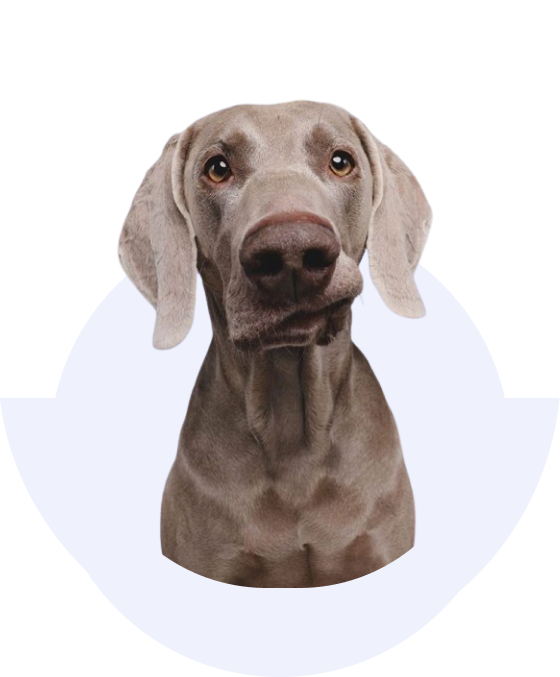
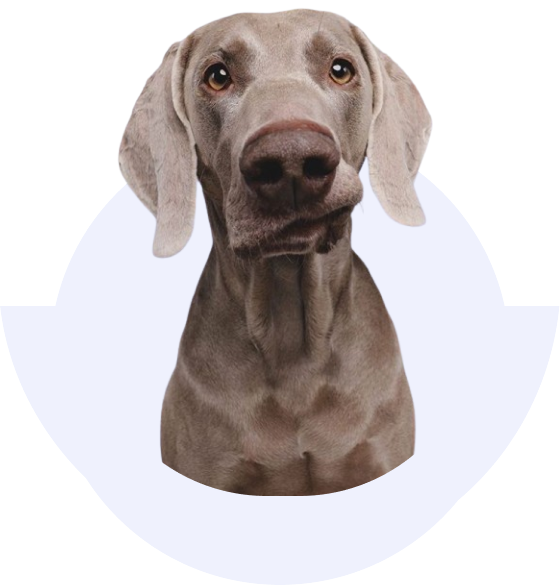
complete scale animation update

Changed region(s): [[0.2125, 0.0, 0.7893, 0.8923]]

diff --git a/src/components/Home/Hero/index.tsx b/src/components/Home/Hero/index.tsx
@@ -3,6 +3,7 @@ import heroImage from "@/public/images/hero/hero-big.png"
 import { WaveBg } from '@/src/assets/svgs'
 import Image from 'next/image'
 import TextAnimations from '../../UI/Animation/TextAnimation'
+import ScaleAnimation from '../../UI/Animation/ScaleAnimation'
 const HeroSection = () => {
 
 
@@ -13,14 +14,16 @@ const HeroSection = () => {
     >
       <WaveBg className="w-full h-[105%] absolute inset-0 text-primary" />
       <div className="hero  w-[80%] h-[80%] glass rounded-box mt-[4vmax]">
-        <div className="hero-content flex-col lg:flex-row-reverse">
-          <Image
-            src={heroImage} width={heroImage.width} height={heroImage.height} alt='heroImage'
-            className="w-[40%] aspect-square rounded-lg object-cover" />
-          <div>
+        <div className="w-full h-full hero-content flex-col lg:flex-row-reverse">
+          <ScaleAnimation duration={0.75} delay={1.5} once scaleVal boxClass='md:w-1/2 md:h-full h-1/2 w-full flex justify-center items-center'>
+            <Image
+              src={heroImage} width={heroImage.width} height={heroImage.height} alt='heroImage'
+              className="md:w-[90%] w-[70%] aspect-square object-contain mx-auto" />
+          </ScaleAnimation>
+          <div className='md:w-1/2 md:h-full h-1/2 w-full flex flex-col justify-center text-center p-4'>
             <TextAnimations
               text='Box Office News!'
-              boxClass='text-5xl font-bold'
+              boxClass='md:text-5xl text-2xl font-bold w-full'
               el='h1'
               staggerTime={0.1}
               duration={0.1}
@@ -34,9 +37,9 @@ const HeroSection = () => {
                 "exercitationem   quasi. In deleniti ",
                 "eaque aut repudiandae et a id nisi. "
               ]}
-              boxClass='py-6 w-[50%]'
+              boxClass='py-6 w-[50%] md:text-base text-xs w-full'
               staggerTime={0.1}
-              duration={1}
+              duration={0.75}
               delay={1.5}
               once
               typeAnimation='lineOpacity'

diff --git a/src/components/UI/Animation/ScaleAnimation.tsx b/src/components/UI/Animation/ScaleAnimation.tsx
@@ -1,0 +1,79 @@
+"use client"
+import { motion, useInView } from "framer-motion"
+import { useRef } from "react"
+
+export interface animationComponentProps {
+    boxClass?: string
+    children: React.ReactNode
+    delay?: number
+    duration?: number
+    whenAnimate?: string
+    whenExit?: string
+    amountView?: number,
+    once?: boolean
+}
+
+interface scaleAnimations extends animationComponentProps {
+    scaleYVal?: boolean
+    scaleXVal?: boolean
+    scaleVal?: boolean
+}
+const ScaleAnimation = ({
+    boxClass,
+    children,
+    delay,
+    duration,
+    whenAnimate,
+    whenExit,
+    scaleYVal,
+    scaleXVal,
+    scaleVal,
+    once,
+    amountView
+}: scaleAnimations) => {
+    const scaleRef = useRef(null)
+    const isInView = useInView(scaleRef, { amount: amountView ?? 0.5, once })
+    const sclaeYVariant = {
+        initial: {
+            scaleY: scaleYVal ? 0 : 1,
+            scaleX: scaleXVal ? 0 : 1,
+            scale: scaleVal ? 0 : 1
+        },
+        animate: {
+            scaleY: 1,
+            scaleX: 1,
+            scale: 1,
+            transition: {
+                delay: delay ?? 0,
+                duration: duration ?? 0.75,
+                when: whenAnimate ?? "beforeChildren",
+            }
+        },
+        exit: {
+            scaleY: scaleYVal ? 0 : 1,
+            scaleX: scaleXVal ? 0 : 1,
+            scale: scaleVal ? 0 : 1,
+            transition: {
+                duration: duration ?? 0.75,
+                when: whenExit ?? 'afterChildren'
+            }
+        }
+    }
+    return (
+        <motion.div
+            ref={scaleRef}
+            initial='initial'
+            animate={isInView ? 'animate' : "initial"}
+            exit='exit'
+            className={boxClass}
+        >
+            <motion.div 
+                variants={sclaeYVariant}
+            >
+                {children}
+            </motion.div>
+        </motion.div>
+    )
+}
+
+export default ScaleAnimation

diff --git a/src/components/navbar/index.tsx b/src/components/navbar/index.tsx
@@ -4,17 +4,14 @@ import LanguageChanger from '../LanguageChanger'
 import NavItem from './NavItem'
 import Link from 'next/link'
 import HamMenu from './HamMenu'
-import ham from "@/public/svg/ham.svg"
-import close from "@/public/svg/close.svg"
-import Image from 'next/image'
 import { RiLoginBoxFill } from 'react-icons/ri'
 import { useTranslations } from 'next-intl'
 import SwitchTheme from './SwitchTheme'
 import Logo from '../UI/Logo/Logo'
-import { CloseHamMenu, OpenHamMenu } from '@/src/assets/svgs'
 import HamMenuBtn from '../UI/HamMenuBtn'
-import ScaleYBox from '../UI/Animation/ScaleYBox'
+import ScaleYBox from '../UI/Animation/ScaleAnimation'
 import OpacityContent from '../UI/Animation/OpacityContent'
+import ScaleAnimation from '../UI/Animation/ScaleAnimation'
 
 const NavBar = () => {
     const MOBILE_THRESHOLD: number = 768
@@ -31,10 +28,10 @@ const NavBar = () => {
     }
     return (
         <>
-            <div className='fixed top-0 bg-primary/50 origin-top backdrop-blur-2xl z-40 w-full'>
+            <ScaleAnimation duration={0.5} scaleYVal boxClass='fixed top-0 bg-primary/50 origin-top backdrop-blur-2xl z-40 w-full'>
 
 
-                <OpacityContent boxClass="navbar xl:w-[70%] bg-transparent mx-auto" duration={1}>
+                <OpacityContent delay={0.5} boxClass="navbar xl:w-[70%] bg-transparent mx-auto" duration={1}>
 
                     <div className="navbar-start space-x-2">
                         <HamMenuBtn isOpen={openMenu} toggleMenu={toggleMenu} />
@@ -52,7 +49,7 @@ const NavBar = () => {
                         </Link>
                     </div>
                 </OpacityContent>
-            </div>
+            </ScaleAnimation>
             <HamMenu openMenu={openMenu} />
         </>
     )

diff --git a/src/components/Shop/ShowCategory/index.tsx b/src/components/Shop/ShowCategory/index.tsx
@@ -1,5 +1,6 @@
 import Image from 'next/image'
 import Link from 'next/link'
+import ScaleAnimation from '../../UI/Animation/ScaleAnimation'
 
 interface categType {
     image: string,
@@ -21,7 +22,7 @@ const Category = () => {
     return (
         <div className='w-full h-screen flex flex-col items-center justify-center space-y-6'>
             <h6>Shop by collection</h6>
-            <div className='w-full flex justify-center mx-auto md:space-x-4 text-center'>
+            <ScaleAnimation once scaleVal boxClass='w-full flex justify-center mx-auto md:space-x-4 text-center'>
                 {categDetails.map(item =>
                     <Link href={item.link} key={item.type}
                         className='group flex flex-col justify-center items-center space-y-2  cursor-pointer'
@@ -31,7 +32,7 @@ const Category = () => {
                         <div className='md:text-sm text-xs font-bold '>{item.type}</div>
                     </Link>
                 )}
-            </div>
+            </ScaleAnimation>
         </div>
     )
 }

diff --git a/src/components/navbar/HamMenu.tsx b/src/components/navbar/HamMenu.tsx
@@ -1,6 +1,6 @@
 import { AnimatePresence } from "framer-motion";
-import ScaleYBox from "../UI/Animation/ScaleYBox";
 import NavItem from "./NavItem";
+import ScaleAnimation from "../UI/Animation/ScaleAnimation";
 
 
 const HamMenu = ({ openMenu }: { openMenu: boolean }) => {
@@ -9,9 +9,9 @@ const HamMenu = ({ openMenu }: { openMenu: boolean }) => {
         <AnimatePresence>
             {
                 openMenu &&
-                <ScaleYBox boxClass='w-full h-screen flex items-center justify-center fixed bg-primary z-30 inset-0 origin-top'>
+                <ScaleAnimation scaleYVal boxClass='w-full h-screen flex items-center justify-center fixed bg-primary z-30 inset-0 origin-top'>
                     <NavItem />
-                </ScaleYBox>
+                </ScaleAnimation>
             }
         </AnimatePresence>
 

diff --git a/src/components/UI/Animation/TextAnimation.tsx b/src/components/UI/Animation/TextAnimation.tsx
@@ -14,7 +14,17 @@ export interface TypingAnimationProps {
     typeAnimation: "typing" | "lineOpacity"
 }
 
-const TextAnimations = ({ text, boxClass, delay, staggerTime, el: Wrapper = "p", duration, amountView, once, typeAnimation }: TypingAnimationProps) => {
+const TextAnimations = ({
+    text,
+    boxClass,
+    delay,
+    staggerTime,
+    el: Wrapper = "p",
+    duration,
+    amountView,
+    once,
+    typeAnimation
+}: TypingAnimationProps) => {
     const textArray: string[] = Array.isArray(text) ? text : [text]
     const boxRef = useRef(null)
     const isInView = useInView(boxRef, { amount: amountView ?? 0.5, once })

diff --git a/src/components/UI/Animation/OpacityContent.tsx b/src/components/UI/Animation/OpacityContent.tsx
@@ -1,5 +1,5 @@
 import React from 'react'
-import { animationComponentProps } from './ScaleYBox'
+import { animationComponentProps } from './ScaleAnimation'
 import { motion } from "framer-motion"
 
 const OpacityContent = ({ boxClass, children, delay, duration, whenAnimate, whenExit }: animationComponentProps) => {
